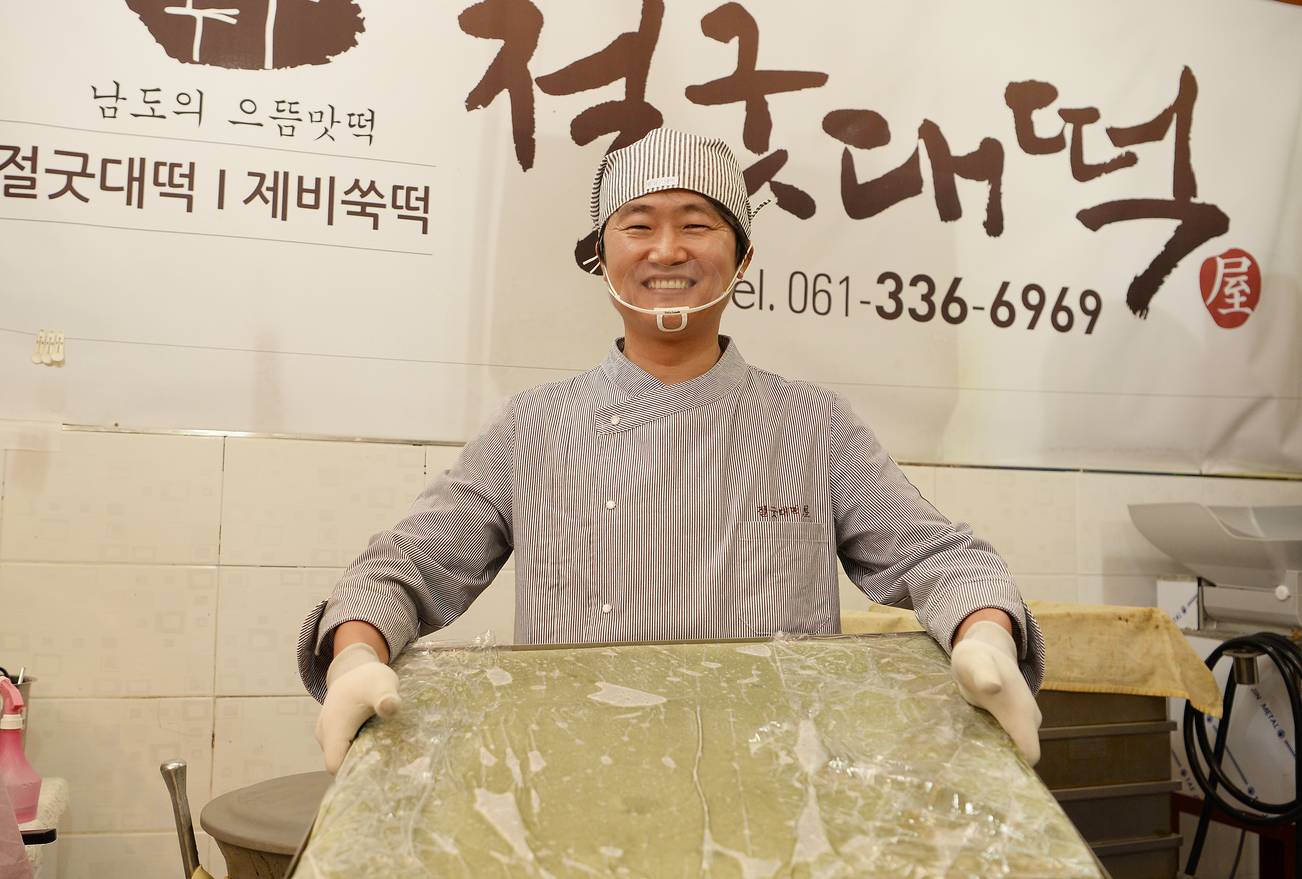
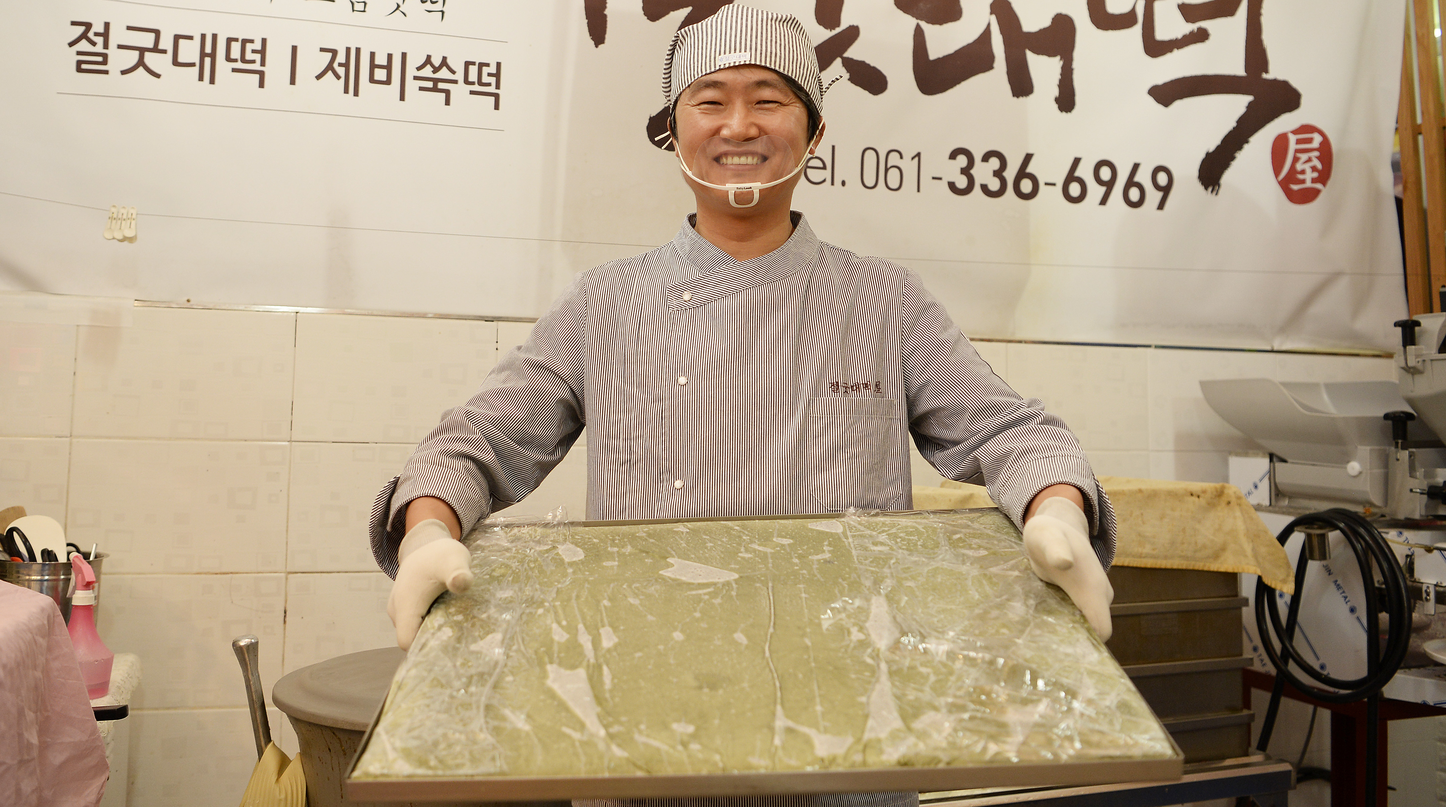
fix(home): 떡판이 잘리던 문제 — 원본 비율을 눕혀서 세로 손실을 줄였다
사진은 1.40, 히어로 창은 2.27 비율이라 세로가 통째로 남고 그 손실이
전부 아래쪽 떡판에서 났다. 폭을 원본 끝까지 쓰고 위 현수막 글씨만 덜어내
원본을 1.79 로 눕히니 잘려 나가는 양이 296px → 148px 로 준다.
1265x558 창에 실제로 넣어 확인: 상체 전체 + 떡판 윗면까지 들어온다.

diff --git a/app/page.tsx b/app/page.tsx
@@ -36,7 +36,7 @@ export default function HomePage() {
             priority
             quality={92}
             sizes="100vw"
-            className="object-cover object-[50%_22%]"
+            className="object-cover object-[50%_12%]"
           />
           {/* 위쪽까지 덮으면 사진이 탁해진다. 글자가 앉는 아래 절반만 어둡게. */}
           <div
